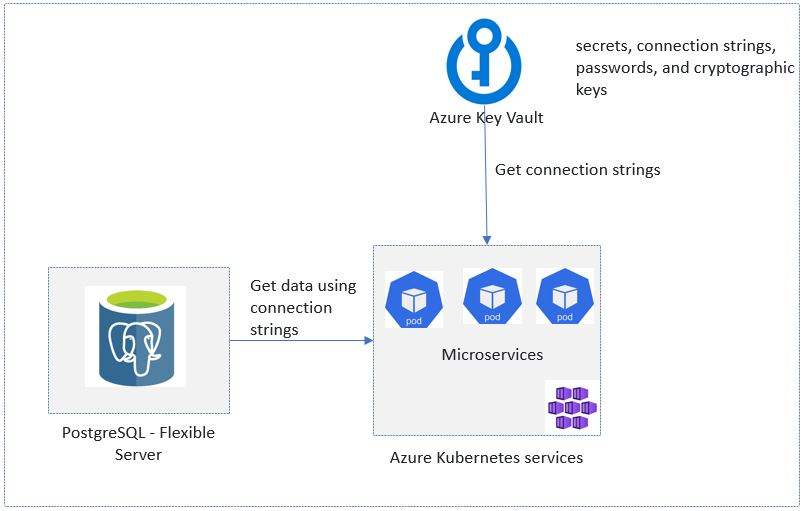
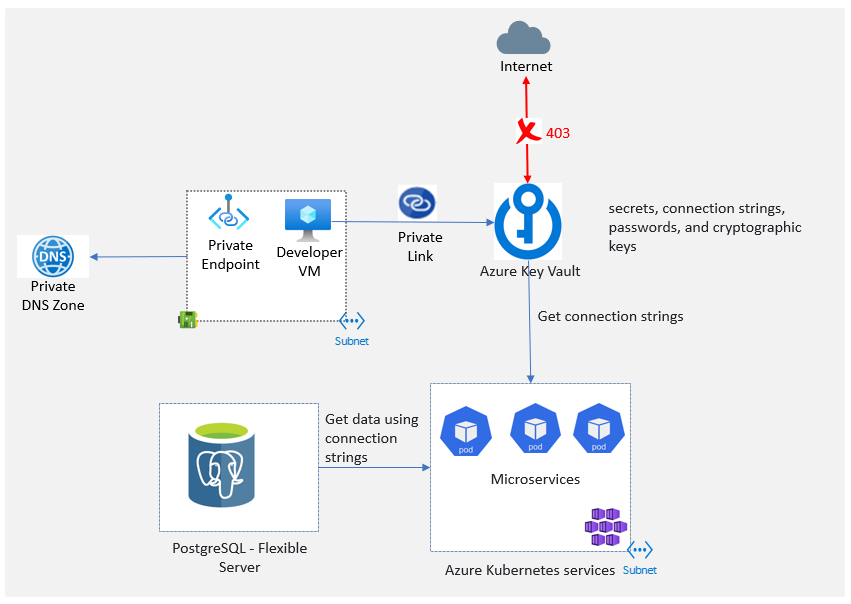
KV, ACR - Private Endpoint updates

diff --git a/docs/azure/9-acr.md b/docs/azure/9-acr.md
@@ -41,13 +41,15 @@ In this exercise we will accomplish & learn how to implement following:
     - Task-8.1: Configure the Private DNS Zone
     - Task-8.2: Create a Virtual Network Link Association
     - Task-8.3: Create a Private Endpoint Using Terraform
+    - Task-8.4: Validate private link connection using `nslookup` or `dig`
     <!-- - Task-7.5: Push and pull Helm charts to an Azure container registry -->
 
 ## Architecture diagram
 
 Here is the reference architecture diagram of Azure container registry.
 
-[![Alt text](images/acr/image-0.png)](images/acr/image-0.png){:target="_blank"}
+[![Alt text](images/acr/image-12.png)](images/acr/image-12.png){:target="_blank"}
+
 
 <!-- Here is the reference architecture diagram from MSDN on registries, repositories, and container images and related artifacts.
 
@@ -499,6 +501,7 @@ To enhance security and limit access to an Azure Container Registry (ACR), you c
 
 Additionally, you can configure DNS settings for the registry's private endpoints, allowing clients and services in the network to access the registry using its fully qualified domain name, such as `myregistry.azurecr.io`.
 
+
 This section guides you through configuring a private endpoint for your ACR using Terraform. Note that this feature is available in the Premium container registry service tier.
 
 ### Task-8.1: Configure the Private DNS Zone
@@ -645,6 +648,109 @@ Navigate to `Network interface -> Overview` to verify the private IP address att
 
 [![Alt text](images/acr/image-5.png)](images/acr/image-5.png){:target="_blank"}
 
+### Task-8.4: Validate private link connection using `nslookup` or `dig`
+
+To validate the private link connection, connect to the `virtual machine` you set up in the virtual network. Run a utility such as `nslookup` or `dig` to look up the IP address of your registry over the private link. 
+
+This will ensures that the private link connection is successfully established and allows for the verification of the expected private IP address associated with the registry in the given virtual network.
+
+**Validate using `dig` example:**
+
+Positive test case connecting from internal vm (private access):
+
+Run the `dig` utility to look up the private IP address (`10.64.3.5`) of your registry over the private link:
+
+```wsl
+dig acr1dev.azurecr.io
+```
+
+output
+
+```sh
+
+; <<>> DiG 9.16.1-Ubuntu <<>> acr1dev.azurecr.io
+;; global options: +cmd
+;; Got answer:
+;; ->>HEADER<<- opcode: QUERY, status: NOERROR, id: 31549
+;; flags: qr rd ad; QUERY: 1, ANSWER: 2, AUTHORITY: 0, ADDITIONAL: 0
+;; WARNING: recursion requested but not available
+
+;; QUESTION SECTION:
+;acr1dev.azurecr.io.                IN      A
+
+;; ANSWER SECTION:
+acr1dev.azurecr.io. 0       IN      CNAME   acr1dev.privatelink.azurecr.io.
+acr1dev.privatelink.azurecr.io. 0 IN A      10.64.3.5
+
+;; Query time: 10 msec
+;; SERVER: 172.30.80.1#53(172.30.80.1)
+;; WHEN: Tue Dec 26 14:57:14 UTC 2023
+;; MSG SIZE  rcvd: 160
+```
+
+Nagetive test case connecting from external (public access), compare this result with the public IP address in `dig` output for the same registry over a public endpoint:
+
+```wsl
+dig acr1dev.azurecr.io
+```
+output
+
+
+```sh
+; <<>> DiG 9.16.1-Ubuntu <<>> acr1dev.azurecr.io
+;; global options: +cmd
+acr1dev.azurecr.io. 0       IN      CNAME   acr1dev.privatelink.azurecr.io.
+acr1dev.privatelink.azurecr.io. 0 IN CNAME  ncus.fe.azcr.io.
+ncus.fe.azcr.io.        0       IN      CNAME   ncus-acr-reg.trafficmanager.net.
+ncus-acr-reg.trafficmanager.net. 0 IN   CNAME   r1029ncus.northcentralus.cloudapp.azure.com.
+r1029ncus.northcentralus.cloudapp.azure.com. 0 IN A 52.240.241.132
+
+;; Query time: 50 msec
+;; SERVER: 172.29.48.1#53(172.29.48.1)
+;; WHEN: Tue Dec 26 06:56:26 PST 2023
+;; MSG SIZE  rcvd: 380
+```
+
+
+**Validate using `nslookup` example:**
+
+Connecting from internal VM (private access):
+
+```sh
+nslookup acr1dev.azurecr.io
+```
+output
+
+```sh
+Server:         172.30.80.1
+Address:        172.30.80.1#53
+
+Non-authoritative answer:
+acr1dev.azurecr.io  canonical name = acr1dev.privatelink.azurecr.io.
+Name:   acr1dev.privatelink.azurecr.io
+Address: 10.64.3.5
+```
+
+Connecting from external (public access):
+
+```sh
+nslookup acr1dev.azurecr.io
+```
+
+output
+
+```sh
+Server:         172.29.48.1   
+Address:        172.29.48.1#53
+
+Non-authoritative answer:
+acr1dev.azurecr.io  canonical name = acr1dev.privatelink.azurecr.io.
+acr1dev.privatelink.azurecr.io      canonical name = ncus.fe.azcr.io.
+ncus.fe.azcr.io canonical name = ncus-acr-reg.trafficmanager.net.
+ncus-acr-reg.trafficmanager.net canonical name = r1029ncus.northcentralus.cloudapp.azure.com.
+Name:   r1029ncus.northcentralus.cloudapp.azure.com
+Address: 52.240.241.132
+```
 
 ## References
 - [Microsoft MSDN - Azure Container Registry documentation](https://learn.microsoft.com/en-us/azure/container-registry/){:target="_blank"}
@@ -660,8 +766,6 @@ Navigate to `Network interface -> Overview` to verify the private IP address att
 - [Terraform Registry - azurerm_private_dns_zone](https://registry.terraform.io/providers/hashicorp/azurerm/latest/docs/resources/private_dns_zone){:target="_blank"}
 - [Terraform Registry - azurerm_private_dns_zone_virtual_network_link](https://registry.terraform.io/providers/hashicorp/azurerm/latest/docs/resources/private_dns_zone_virtual_network_link){:target="_blank"}
 - [Terraform Registry - azurerm_private_endpoint](https://registry.terraform.io/providers/hashicorp/azurerm/latest/docs/resources/private_endpoint){:target="_blank"}
-
-
 - [Azure-Samples/private-aks-cluster-terraform-devop](https://github.com/Azure-Samples/private-aks-cluster-terraform-devops/blob/main/terraform/modules/container_registry/main.tf){:target="_blank"}
 
 <!-- 

diff --git a/docs/gettingstarted/about-author.md b/docs/gettingstarted/about-author.md
@@ -2,23 +2,21 @@
 
 **Anji Keesari** is a software engineer and cloud architect with over 20 years of experience in the technology industry. He has worked on numerous projects involving cloud computing, microservices architecture, and Kubernetes, Terraform, and containers.
 
-<!-- is a certified Kubernetes administrator and -->
-
 Anji has experience deploying and managing Kubernetes clusters in production environments. He is also an expert in ArgoCD and Helm and has used these tools to deploy microservices applications on Kubernetes. Anji also has extensive experience with containers and containerization technologies, including Docker and container orchestration tools such as Kubernetes.
 
 In addition to his experience with Kubernetes and related tools, Anji has extensive experience with Terraform and has used it to deploy infrastructure on various cloud platforms, including Azure and AWS.
 
-Anji has a passion for teaching and sharing his knowledge with others. He has written numerous articles and tutorials on Kubernetes, ArgoCD, and Helm, and has presented at various industry conferences and events, He has YouTube Chanel for sharing the knowledge on various technical topics.
+Anji has a passion for teaching and sharing his knowledge with others. He has written numerous articles and tutorials on Kubernetes, ArgoCD, and Helm, and published in Medium website, He has YouTube Chanel for sharing the knowledge on various technical topics.
 
 With his extensive knowledge and experience in Kubernetes, ArgoCD, and Helm, Anji is the perfect author for this book on `Build and Deploy Microservices Applications on a Kubernetes using ArgoCD and Helm`. His passion for teaching and his ability to explain complex concepts in simple terms will make this book a valuable resource for readers of all levels of expertise.
 
 Anji has recently been involved in developing multi-tenant applications while also focusing on infrastructure automation. He leverages tools like Terraform and Azure DevOps to streamline the process. Anji's goal is to efficiently create new environments, aiming to complete the setup within a remarkable 30-minute timeframe. 
 
-Throughout my career, I have worked with various companies in different domains such as Banking, Healthcare, and Finance, across countries like India, UK, and US. I am passionate about making a significant impact at my workplace and helping others along the way.
+Throughout his career, Anji have worked with various companies in different domains such as Banking, Healthcare, and Finance, across countries like India, UK, and US. Anji is  passionate about making a significant impact at his workplace and helping others along the way.
 
 During his free time, Anji finds joy in various activities such as playing soccer, going hiking, exploring new places, and most importantly, spending quality time with his loved ones.
 
-If you have any question, suggestion or want to request a topic, feel free to drop me a message and we’ll get in touch when I can with my busy schedule.
+If you have any questions, suggestion or want to request a topic, feel free to drop me a message and we’ll get in touch when I can with my busy schedule.
 
 - Email: <anjkeesari@gmail.com>
 - Website: [https://anjikeesari.com](https://anjikeesari.com)

diff --git a/docs/azure/13-key-vault.md b/docs/azure/13-key-vault.md
@@ -31,6 +31,11 @@ In this exercise we will accomplish & learn how to implement following:
 - **Task-2:** Create Azure Key Vault using Terraform
 - **Task-3:** Configure diagnostic settings for Azure Key Vault using Terraform
 - **Task-4:** Configure access policy for developer in Azure Key Vault
+- **Task-5:** Restrict Access Using Private Endpoint
+- **Task-5.1:** Configure the Private DNS Zone
+- **Task-5.2:** Create a Virtual Network Link Association
+- **Task-5.3:** Create a Private Endpoint Using Terraform
+- **Task-5.4:** Validate private link connection using `nslookup` or `dig`
 
 ## Architecture diagram
 
@@ -447,7 +452,7 @@ terraform apply dev-plan
 
 Azure key vault - Azure Access Policies
 
-[![Alt text](images/image-4.png)](images/image-4.png){:target="_blank"}
+[![Alt text](images/kv/image-4.png)](images/kv/image-4.png){:target="_blank"}
 
 
 
@@ -604,11 +609,37 @@ Navigate to `Private endpoint -> DNS Configuration` to verify the Network Interf
 Navigate to `Network interface -> Overview` to verify the private IP address attached to properties.
 
 
+### Task-5.4: Validate private link connection using `nslookup` or `dig`
 
+Connecting from internal VM (private access):
+
+```sh
+nslookup privatelink.vaultcore.azure.net
+```
+output
+
+```sh
+# expect the private IP Address: 10.64.3.6
+```
+
+Connecting from external (public access):
+
+```sh
+nslookup privatelink.vaultcore.azure.net
+```
+
+output
+
+```sh
+# should not expect the private IP Address: 10.64.3.6
+```
 
 ## Reference
 - [Microsoft MSDN - Azure Key Vault documentation](https://learn.microsoft.com/en-us/azure/key-vault/general/){:target="_blank"}
 - [Terraform Registry - azurerm_key_vault](https://registry.terraform.io/providers/hashicorp/azurerm/latest/docs/resources/key_vault){:target="_blank"}
 - [Terraform Registry - azurerm_key_vault_access_policy](https://registry.terraform.io/providers/hashicorp/azurerm/latest/docs/resources/key_vault_access_policy){:target="_blank"}
 - [Terraform Registry - azurerm_monitor_diagnostic_setting](https://registry.terraform.io/providers/hashicorp/azurerm/latest/docs/resources/monitor_diagnostic_setting){:target="_blank"}
+- [Terraform Registry - azurerm_private_dns_zone](https://registry.terraform.io/providers/hashicorp/azurerm/latest/docs/resources/private_dns_zone){:target="_blank"}
+- [Terraform Registry - azurerm_private_dns_zone_virtual_network_link](https://registry.terraform.io/providers/hashicorp/azurerm/latest/docs/resources/private_dns_zone_virtual_network_link){:target="_blank"}
+- [Terraform Registry - azurerm_private_endpoint](https://registry.terraform.io/providers/hashicorp/azurerm/latest/docs/resources/private_endpoint){:target="_blank"}
 - [Azure Terraform Quickstart/101-key-vault-key](https://github.com/Azure/terraform/tree/master/quickstart/101-key-vault-key){:target="_blank"}

diff --git a/docs/gettingstarted/toc.md b/docs/gettingstarted/toc.md
@@ -130,6 +130,7 @@
         - Task-8.1: Configure the Private DNS Zone
         - Task-8.2: Create a Virtual Network Link
         - Task-8.3: Create a Private Endpoint Using Terraform
+        - Task-8.4: Validate private link connection using `nslookup` or `dig`
 - [Lab-9: Create Azure Kubernetes Service (AKS) using terraform](../azure/11-aks.md)
     - Task-1: Define and declare AKS variables
     - Task-2: Create a resource group for AKS
@@ -158,6 +159,11 @@
     - Task-2: Create Azure Key Vault using Terraform
     - Task-3: Configure diagnostic settings for Azure Key Vault using terraform
     - Task-4: Configure access policy for developer in Azure Key Vault
+    - Task-5: Restrict Access Using Private Endpoint
+        - Task-5.1: Configure the Private DNS Zone
+        - Task-5.2: Create a Virtual Network Link
+        - Task-5.3: Create a Private Endpoint Using Terraform
+        - Task-5.4: Validate private link connection using `nslookup` or `dig`
 - [Lab-12: Create Azure Cache for Redis using Terraform](../azure/14-redis-cache.md)
     - Task-1: Define and declare Azure Cache for Redis variables
     - Task-2: Create Azure Cache for Redis using terraform
